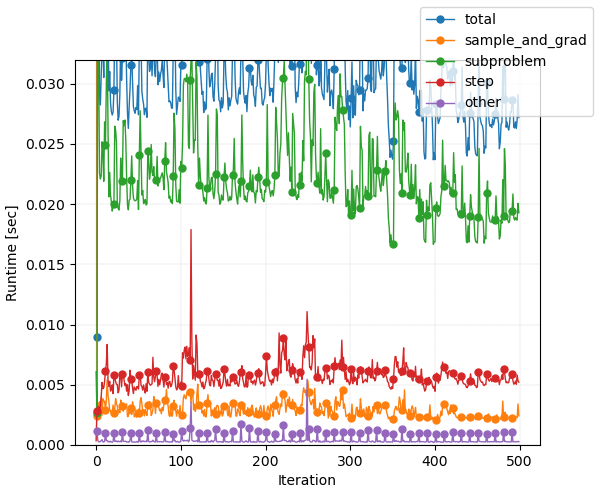
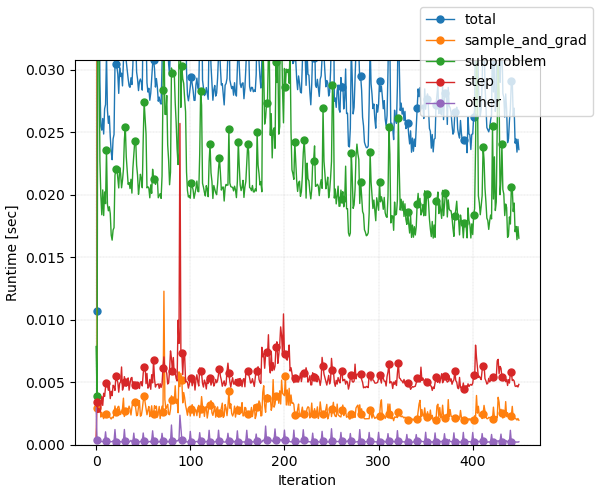
log at first iter

diff --git a/src/ncopt/sqpgs/main.py b/src/ncopt/sqpgs/main.py
@@ -369,7 +369,7 @@ class SQPGS:
             ), f"Value is supposed to be negative, but is {np.abs(self.SP.lambda_f.sum() - rho)}."
 
             # Logging, start after first iteration
-            if iter_k % self.log_every == 1:
+            if iter_k % self.log_every == 0:
                 violI_k = np.maximum(gI_k, 0)
                 violE_k = np.abs(gE_k)
                 viol_k = np.max(np.hstack((violI_k, violE_k)))
@@ -465,7 +465,7 @@ class SQPGS:
         # End of loop
         ##############################################
         self.x_hist = np.vstack(x_hist) if self.store_history else None
-        self.info = {"timings": timings, "metrics": metrics}
+        self.info = {"timings": timings, "metrics": metrics, "log_metrics_every": self.log_every}
         if E_k > self.tol:
             self.status = "max iterations reached"
 
